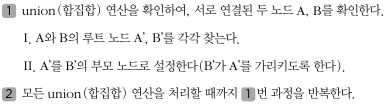
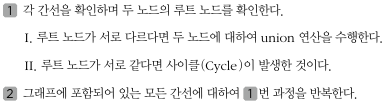
서로소 집합

diff --git a/그래프 이론/서로소 집합을 활용한 사이클 판별/solution.py b/그래프 이론/서로소 집합을 활용한 사이클 판별/solution.py
@@ -31,14 +31,15 @@ for i in range(e):
     a,b = map(int, input().split())
     union_parent(parent, a, b)
 
-print('각 원소가 속한 집합: ', end='')
-# 각 원소가 속한 집합 출력
-for i in range(1, v+1):
-    print(find_parent(parent, i), end= ' ')
-print()
+c = parent[1]
+cycle = True
 
-# 부모 테이블 내용 출력
-print('부모 테이블: ', end='')
-# 각 원소가 속한 집합 출력
-for i in range(1, v+1):
-    print(parent[i], end=' ')
+for i in range(1, v + 1):
+    if c != parent[i]:
+        cycle = False
+        break
+
+if cycle:
+    print("싸이클")
+else:
+    print("no 싸이클")

diff --git a/그래프 이론/서로소 집합을 활용한 사이클 판별/README.md b/그래프 이론/서로소 집합을 활용한 사이클 판별/README.md
@@ -1,13 +1,7 @@
-## 서로소 집합
-- 수학에서 서로소 집합이란 공통 원소가 없는 두 집합을 의미한다.
-- 서로소 집합 자료구조란 서로소 부분 집합들로 나누어진 원소들의 데이터를 처리하기 위한 자료구조이다.
-- 서로소 집합 자료구조는 union(합집합)과 find(찾기)이 2개의 연산으로 조작할 수 있다.
-- 서로소 집한 자료구조는 union-find(합치기 찾기) 자료구조라고 불리기도 한다.
-
-### 서로소 집합 자료구조
-- 서로소 집합 자료구조를 구현할 때는 트리 자료구조를 이용하여 집합을 표현하는데, 서로소 집합 정보(합집합 연산)가 주어졌을 때 트리 자료구조를 이용해서 집합을 표현하는 서로소 집합 계산 알고리즘은 다음과 같다.
+## 서로소 집합을 활용한 사이클 판별
+- 서로소 집합은 **무방향 그래프 내에서의 사이클** 판별할 때 사용할 수 있다. 참고로 방향 그래프에서는 DFS를 이용하여 판별할 수 있다.
+- 간선을 하나씩 확인하면서 두 노드가 포함되어 있는 집합을 합치는 과정을 반복하는 것만으로도 사이클을 판별할 수 있다.
 <div>
-    <img src="image1.PNG" width="400" height="150">
+    <img src="image1.PNG" width="400" height="130">
 </div>
-- 부모 행렬을 따로 설정하여 저장한다.
-- 경로 압축을 통해 find 시간을 줄일 수 있다.
+- 각 노드의 부모가 같으면 사이클 발생했다고 판단한다.
